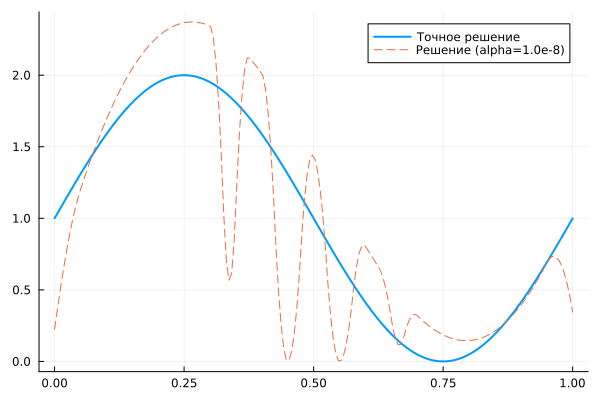
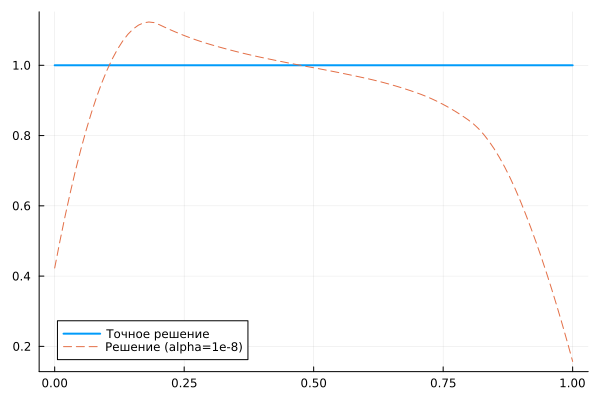
hw2

diff --git a/description.md b/description.md
@@ -14,7 +14,7 @@
 *   `utils.jl`: Содержит базовую реализацию для работы с B-сплайнами
 *   `fredholm_solvers.jl`: Включает решатели для уравнений Фредгольма:
     *   `solve_fredholm_II`: Решает уравнение II рода
-    *   `solve_fredholm_I_via_Wazwaz_regularization`: Решает уравнение I рода путем его преобразования в уравнение II рода в соответствии со статьей номер 3 из источников
+    *   `solve_fredholm_I_regularized`: Решает уравнение I рода путем его преобразования в уравнение II рода с регуляризацией
 *   `volterra_solver.jl`: Содержит функцию `solve_volterra_II` для решения уравнений Вольтерра II рода
 *   `main_experiment.jl`:  скрипт для проведения численных экспериментов. Он запускает решатели на наборе тестовых уравнений, вычисляет ошибку, строит графики
 
@@ -52,13 +52,15 @@
 **выбор параметра**: alpha=1e-6
 
 **Пример 2.1: Гауссово ядро**
-*   **Уравнение**: `∫[0, 1] exp(-(t-x)²)u(x)dx = g(t)`
-*   **Точное решение**: `u(t) = 1 + sin(2πt)`
+*   **Уравнение**: `t <= s ? 2 : 0`
+*   **Точное решение**: `2s`
 *   **Результаты**:
+    видим что как и прямой так и с регулязацией показывают примерно одинаковую точность
 
     ```
 
-    Максимальная ошибка = 1.3136273786792367
+    Максимальная ошибка при методе регуляризации = 0.8428068155823527
+    Максимальная ошибка при прямом методе 1.3896
 
     ```
 
@@ -66,10 +68,12 @@
 *   **уравнение**: `∫[0, 1] cos(tx)u(x)dx = g(t)`
 *   **точное решение**: `u(t) = 1 + t`
 *   **Результаты**: 
-
+    видим что уже на прямом наблюдаются вычислительные эффекты некорректности 
+    поставленной задачи, в то время как с регуляцией точность приемлемая
 ```
 
-Максимальная ошибка = 1.5405774031386934
+Максимальная ошибка при методе регуляризации = 0.8779894288699137
+Максимальная ошибка при прямом методе 907563171.6467
 
 ```
 ### Часть 3: Адаптация метода для уравнений Вольтерра
